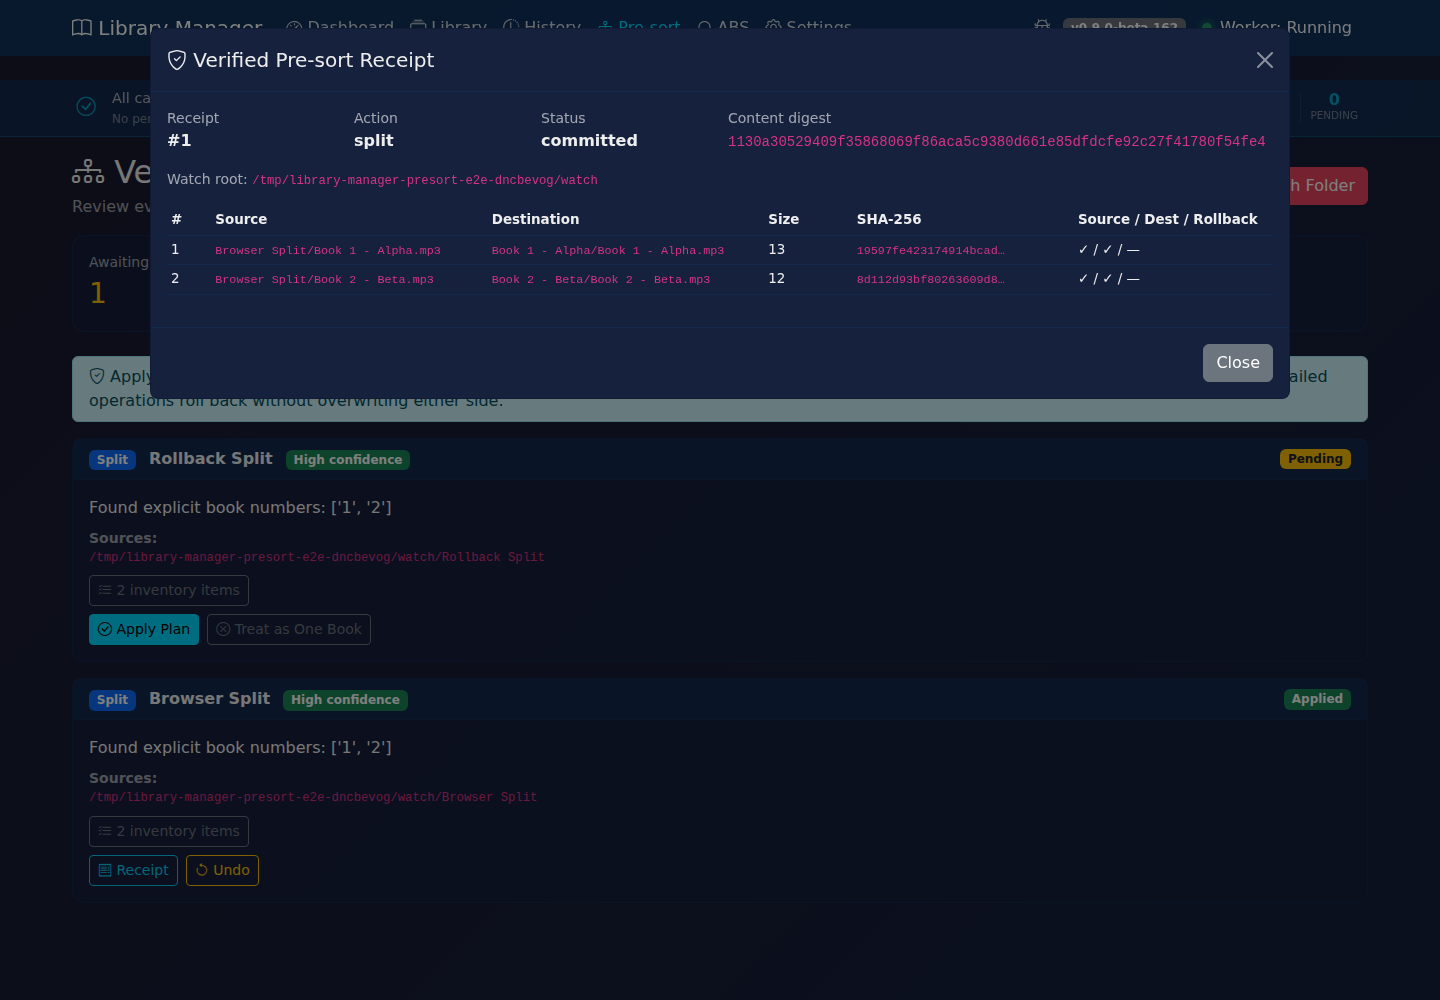
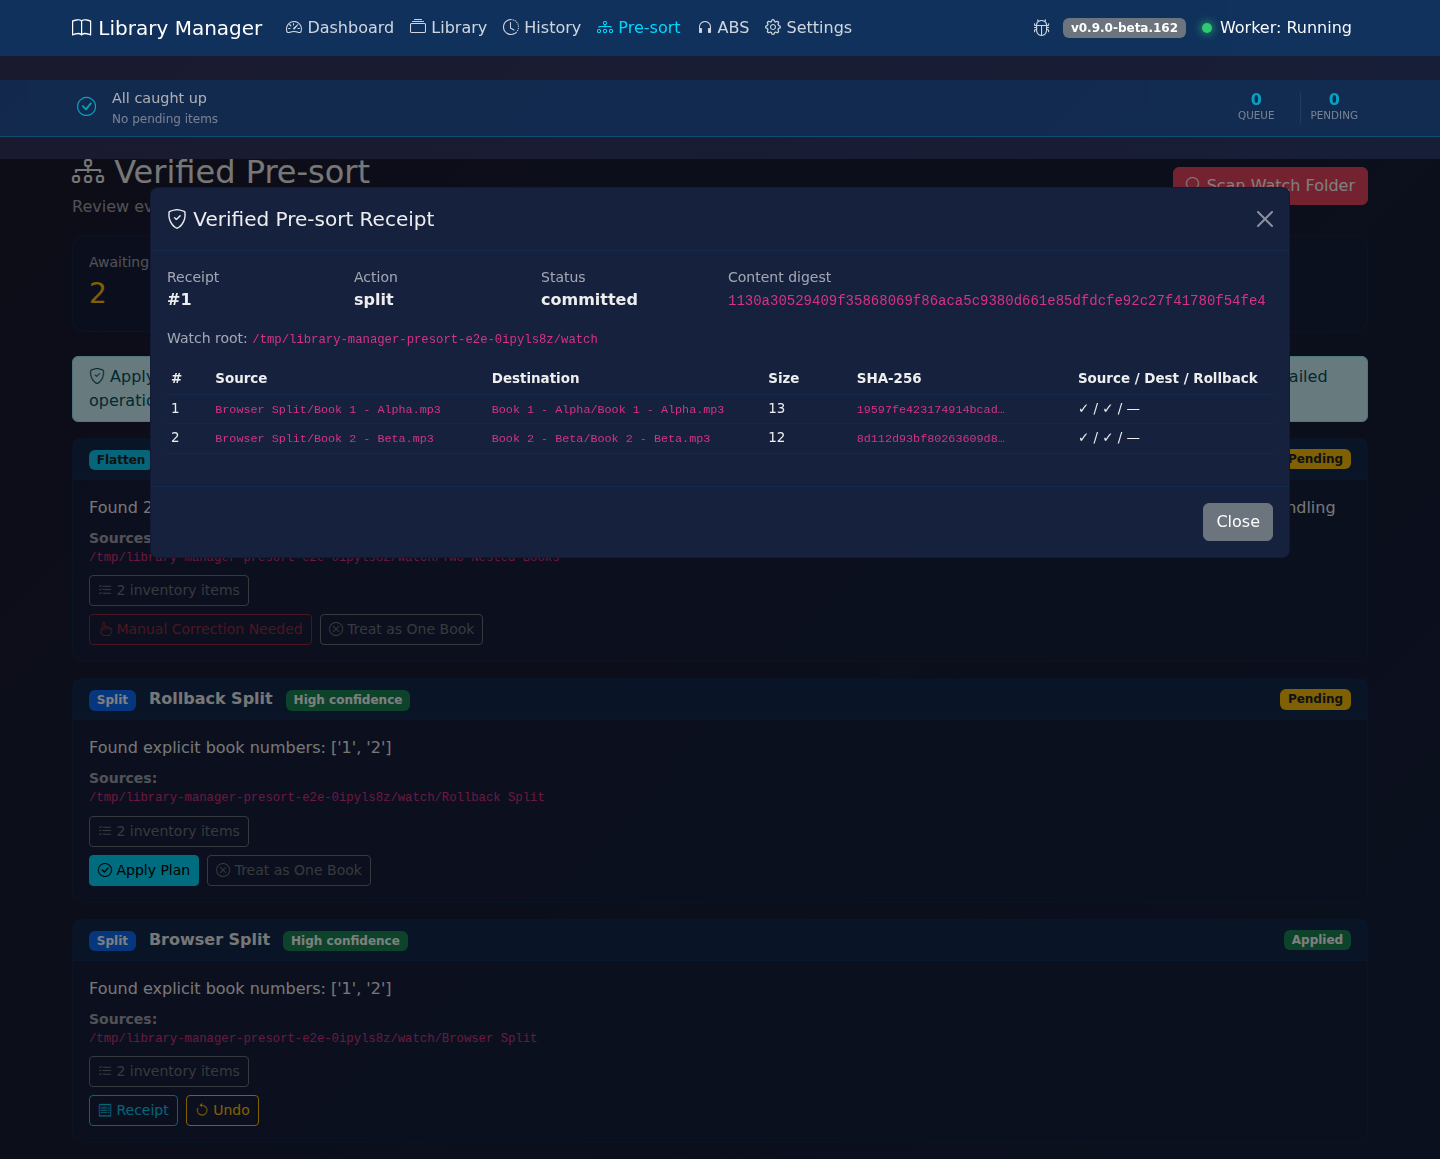
fix: block ambiguous multi-folder flattening

diff --git a/test-env/e2e-presort.py b/test-env/e2e-presort.py
@@ -76,10 +76,16 @@ def run_browser(base_url, db_path, watch_root):
 
         success_row = plan_row(page, 'Browser Split')
         failure_row = plan_row(page, 'Rollback Split')
+        unsafe_flatten_row = plan_row(page, 'Two Nested Books')
         success_row.wait_for()
         failure_row.wait_for()
+        unsafe_flatten_row.wait_for()
         assert success_row.get_by_text('High confidence').is_visible()
         assert success_row.get_by_text('2 inventory items').is_visible()
+        assert unsafe_flatten_row.get_by_text('Medium confidence').is_visible()
+        assert unsafe_flatten_row.get_by_text('may be separate books', exact=False).is_visible()
+        assert unsafe_flatten_row.locator('button[title="Apply verified pre-sort plan"]').count() == 0
+        assert unsafe_flatten_row.get_by_role('button', name='Manual Correction Needed').is_disabled()
         success_row.get_by_role('button', name='2 inventory items').click()
         success_row.locator('tbody tr').first.wait_for()
         page.wait_for_timeout(500)
@@ -88,7 +94,7 @@ def run_browser(base_url, db_path, watch_root):
             full_page=True,
         )
         page.goto(f'{base_url}/', wait_until='networkidle')
-        dashboard_notice = page.get_by_text('2 verified pre-sort plans waiting for review', exact=False)
+        dashboard_notice = page.get_by_text('3 verified pre-sort plans waiting for review', exact=False)
         assert dashboard_notice.is_visible()
         page.get_by_role('link', name='Review handoffs').click()
         page.wait_for_load_state('networkidle')
@@ -168,6 +174,8 @@ def run_browser(base_url, db_path, watch_root):
     assert (watch_root / 'Browser Split' / 'Book 2 - Beta.mp3').read_bytes() == b'beta browser'
     assert (watch_root / 'Rollback Split' / 'Book 1 - Gamma.mp3').read_bytes() == b'gamma rollback'
     assert (watch_root / 'Rollback Split' / 'Book 2 - Delta.mp3').read_bytes() == b'delta rollback'
+    assert (watch_root / 'Two Nested Books' / 'Book Alpha' / 'chapter.mp3').read_bytes() == b'alpha nested'
+    assert (watch_root / 'Two Nested Books' / 'Book Beta' / 'chapter.mp3').read_bytes() == b'beta nested'
     assert not (watch_root / 'Book 1 - Alpha').exists()
     assert not (watch_root / 'Book 1 - Gamma').exists()
     saved_config = json.loads((db_path.parent / 'config.json').read_text(encoding='utf-8'))
@@ -213,6 +221,8 @@ def main():
         write_old(watch_root / 'Browser Split' / 'Book 2 - Beta.mp3', b'beta browser')
         write_old(watch_root / 'Rollback Split' / 'Book 1 - Gamma.mp3', b'gamma rollback')
         write_old(watch_root / 'Rollback Split' / 'Book 2 - Delta.mp3', b'delta rollback')
+        write_old(watch_root / 'Two Nested Books' / 'Book Alpha' / 'chapter.mp3', b'alpha nested')
+        write_old(watch_root / 'Two Nested Books' / 'Book Beta' / 'chapter.mp3', b'beta nested')
 
         config = {
             'library_paths': [str(library_root)],

diff --git a/test-env/test-presort.py b/test-env/test-presort.py
@@ -260,6 +260,33 @@ def test_nested_folder_flatten_and_undo():
         temporary.cleanup()
 
 
+def test_multiple_nested_audio_groups_cannot_be_flattened_together():
+    temporary, watch, config = make_case()
+    try:
+        bundle = watch / 'Two Nested Books'
+        write_old(bundle / 'Book Alpha' / 'chapter.mp3', b'alpha chapter')
+        write_old(bundle / 'Book Beta' / 'chapter.mp3', b'beta chapter')
+
+        scan_presort_plans(database.get_db, config)
+        plan = one_plan('flatten')
+        assert plan['confidence'] == 'medium'
+        assert plan['applicable'] == 0
+        assert plan['auto_applicable'] == 0
+        assert 'may be separate books' in plan['reason']
+
+        success, message, operation_id = apply_presort_plan(
+            database.get_db, config, plan['id'],
+        )
+        assert not success and operation_id is None
+        assert 'requires manual correction' in message.lower()
+        assert (bundle / 'Book Alpha' / 'chapter.mp3').read_bytes() == b'alpha chapter'
+        assert (bundle / 'Book Beta' / 'chapter.mp3').read_bytes() == b'beta chapter'
+        assert not (bundle / 'chapter.mp3').exists()
+        print('[PASS] separate nested audio groups cannot be flattened into one book')
+    finally:
+        temporary.cleanup()
+
+
 def test_settle_window_and_source_mutation_block():
     temporary, watch, config = make_case()
     try:
@@ -763,6 +790,7 @@ def main():
     test_unassigned_companion_blocks_apply_without_losing_inventory()
     test_multipart_folder_merge_receipt_and_undo()
     test_nested_folder_flatten_and_undo()
+    test_multiple_nested_audio_groups_cannot_be_flattened_together()
     test_settle_window_and_source_mutation_block()
     test_mid_move_failure_rolls_back_and_verifies_every_source()
     test_startup_recovers_interrupted_operation()

diff --git a/library_manager/presort.py b/library_manager/presort.py
@@ -476,6 +476,8 @@ def _flatten_plan(folder, watch_root):
         f"Found {len(nested_files)} files below {len(top_groups)} nested folder"
         f"{'s' if len(top_groups) != 1 else ''}; flatten without overwriting names"
     )
+    if len(top_groups) != 1:
+        reason += '; multiple nested audio groups may be separate books and require manual handling'
     existing = {
         str(path).casefold() for path in folder.iterdir()
         if path.is_file() or path.is_symlink()
@@ -498,7 +500,10 @@ def _flatten_plan(folder, watch_root):
             'Symlink or unsupported entry requires manual review',
         ))
 
-    applicable = bool(items) and not unsupported
+    # One redundant wrapper is safe to remove automatically. Multiple top-level
+    # audio folders may represent separate books, so never combine them into one
+    # watch-folder handoff even when their filenames do not collide.
+    applicable = bool(items) and not unsupported and len(top_groups) == 1
     return {
         'action': 'flatten',
         'display_name': folder.name,

diff --git a/library_manager/config.py b/library_manager/config.py
@@ -148,7 +148,7 @@ DEFAULT_CONFIG = {
     "presort_enabled": False,              # Detect split/merge/flatten plans in the watch folder
     "presort_auto_apply": False,           # Auto-apply only high-confidence, fully assigned plans
     "presort_settle_seconds": 300,         # Require every source file to remain unchanged this long
-    "presort_use_fingerprints": True,       # Ask Skaldleita fingerprints to resolve ambiguous bundles
+    "presort_use_fingerprints": True,      # Ask Skaldleita fingerprints to resolve ambiguous bundles
     # Post-processing hooks - run commands/webhooks after a book is renamed (Issue #166)
     "post_processing_hooks": [],
     # Custom HTTP API layers - user-defined external API processing layers (Issue #185)
